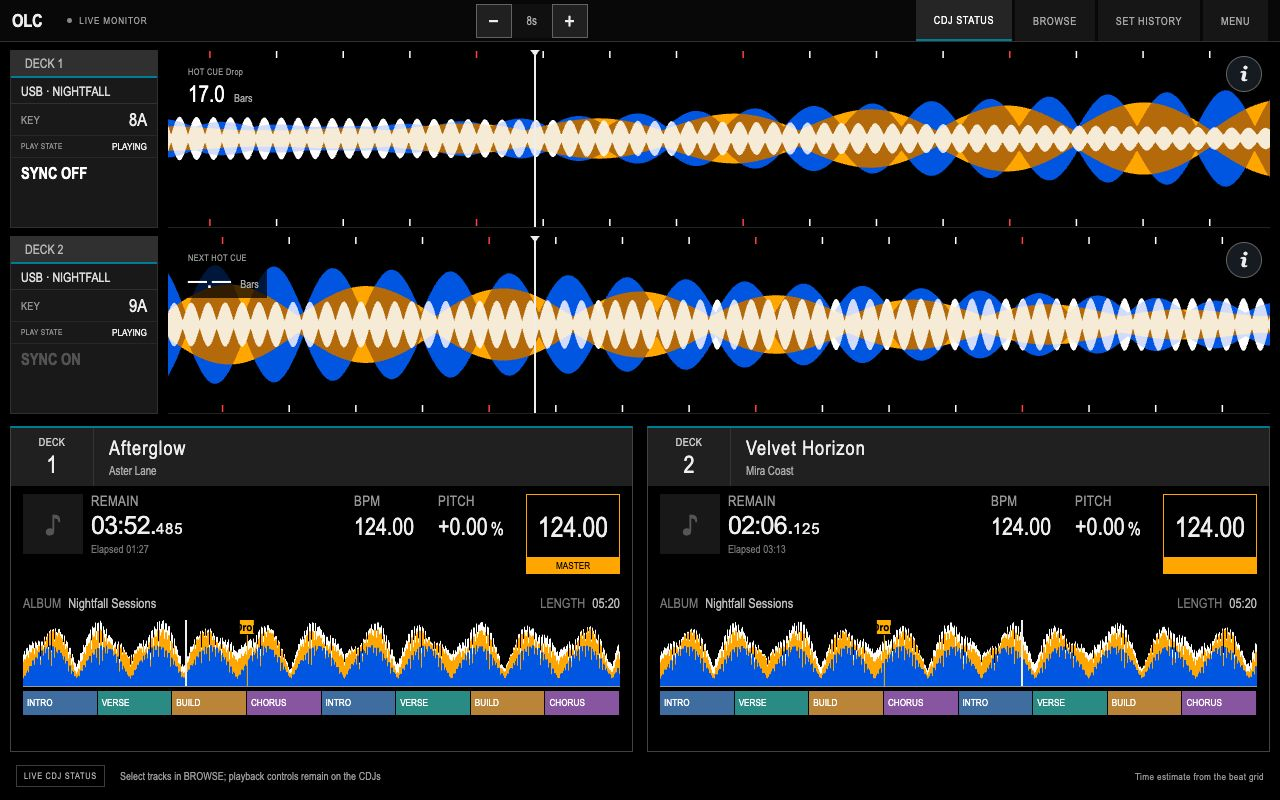
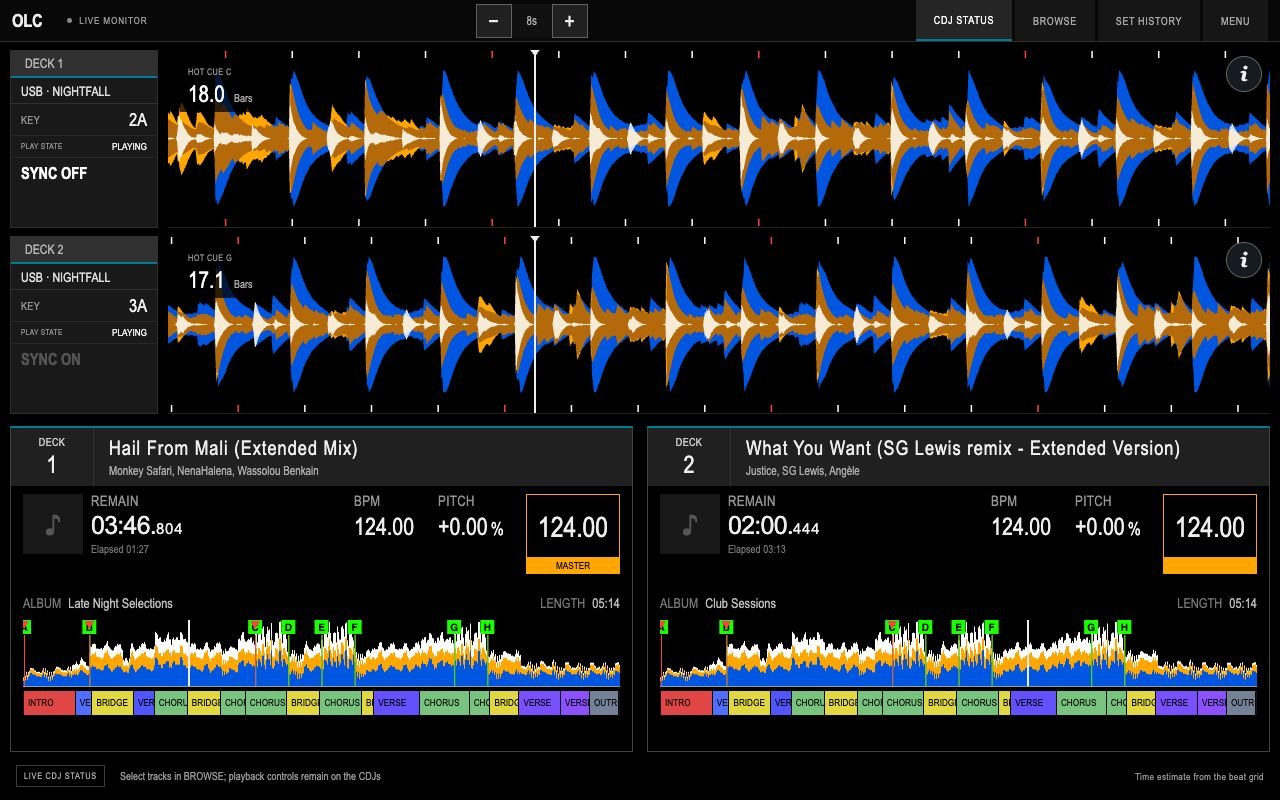
Use realistic waveform analysis in CDJ Status screenshot

diff --git a/docs/screenshots.md b/docs/screenshots.md
@@ -1,6 +1,6 @@
 # Application screenshots
 
-Captured from the OLC production interface at 1280 × 800. These images simulate active use with fictional track names, generated waveforms, a populated USB library and recorded sessions. They illustrate the production interface; they are not evidence of a live hardware connection. The Menu is scrollable and is shown in several views. Network choices depend on the host.
+Captured from the OLC production interface at 1280 × 800. These images simulate active use with illustrative track metadata, realistic waveform analysis, a populated USB library and recorded sessions. They illustrate the production interface; they are not evidence of a live hardware connection. The Menu is scrollable and is shown in several views. Network choices depend on the host.
 
 ## CDJ Status
 
